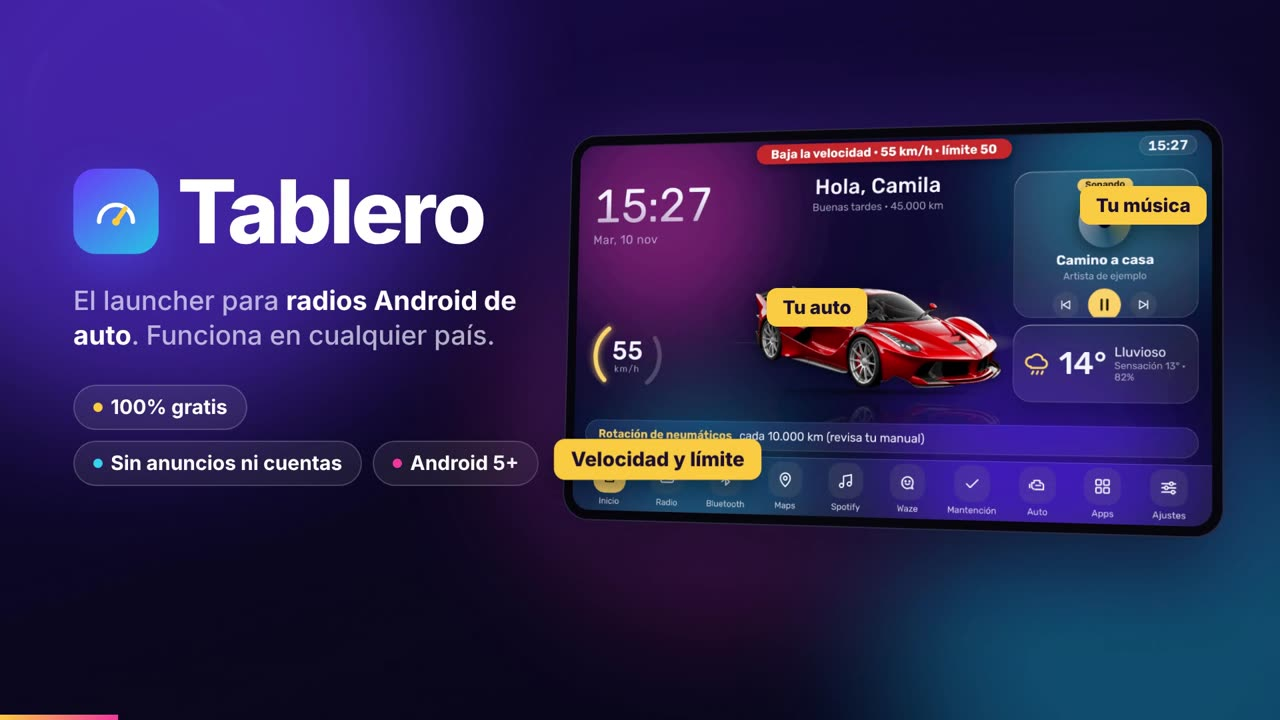
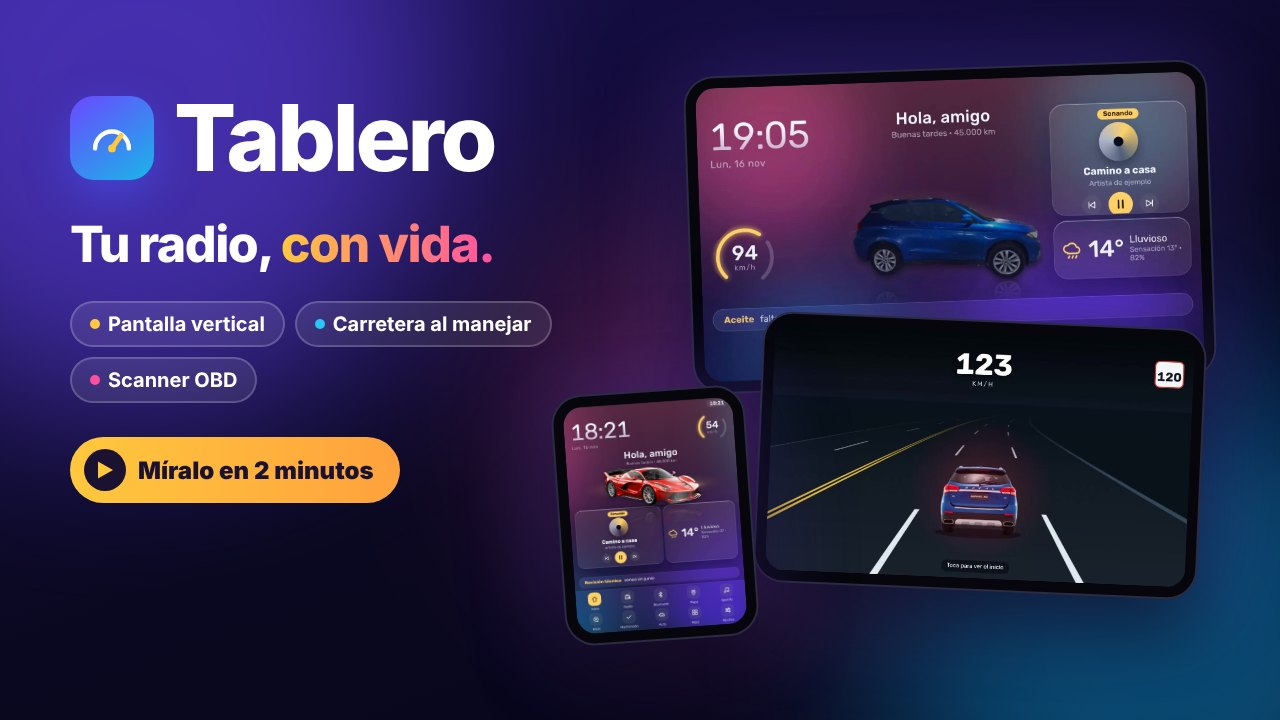
Poster nuevo para el video de la portada
Claude-Session: https://claude.ai/code/session_01CvVERnARSxC3TTNL2qde9Y

diff --git a/CHANGELOG.md b/CHANGELOG.md
@@ -8,6 +8,7 @@ Cómo se publica una versión: `docs/RELEASE.md`.
 ## [Sin publicar]
 
 ### Agregado
+- **Poster nuevo del video de la portada.** La imagen que se ve antes de reproducir el video ahora muestra las novedades (pantalla vertical, carretera al manejar y scanner OBD) con el título «Tu radio, con vida.».
 - **Foto de tu auto desde atrás, para la carretera.** Con el movimiento «Además, carretera», la radio ahora puede mostrar **tu auto de verdad** en la ruta, en vez del dibujo. En el sitio (paso «Tu auto») subes una foto trasera: si ya viene sin fondo se usa tal cual, y si no se lo quitamos en tu celular; la app que descargas «con mi diseño» ya la trae. En la app: Ajustes → Foto de tu auto desde atrás (tiene que ser un PNG con el auto ya recortado). Sin foto trasera, o si no carga, sigue el dibujo con tu color. La foto viaja una sola vez al pedir la descarga y no se guarda.
 - **Video de presentación actualizado (2 min 2 s).** Suma tres escenas nuevas: **pantalla vertical** (las 9 distribuciones en una radio de 9,7"), **pantalla viva** (un clip real con la bienvenida al encender, el auto vivo y la carretera) y **«Reconoce tu scanner»** (buscar scanner cerca, probar la conexión y tolerancia con los clones). Además, la escena de restricciones explica la opción «Otro» y las ventajas suman el movimiento a tu gusto y el diagnóstico de la radio. La música se compuso de nuevo para la duración nueva. En el sitio, la portada dice «en dos minutos» y las funciones suman pantalla vertical, pantalla con vida y apariencia desde la app; la sección de países explica «Otro» y la del scanner explica «Buscar scanner cerca».
 - **País «Otro».** En el sitio, al elegir el país, ahora hay una opción «Otro»: no se aplica ninguna restricción (ni restricción vehicular, ni pico y placa, ni Hoy No Circula). La sección de restricción del configurador se oculta, la radio no avisa nada al entrar a una ciudad y Ajustes muestra la restricción apagada con un aviso. También aplica a quien baja la app con su diseño. Aunque un diseño, un pedido o lo guardado en la radio traiga la restricción encendida, con «Otro» siempre queda apagada. Si te registras con un celular, se acepta un número internacional con su prefijo.

diff --git a/video/GUION.md b/video/GUION.md
@@ -35,3 +35,5 @@ cd proyecto && npx hyperframes@0.9.30 render -q standard --video-frame-format pn
 ffmpeg -y -i ../tablero-presentacion.mp4 -vf scale=1280:720 -c:v libx264 -preset slow -crf 29 -c:a aac -b:a 128k -movflags +faststart ../../public/video/tablero.mp4
 ```
 El clip `assets/movimiento.mp4` es un `<video>` directo en el escenario (HyperFrames no admite un `<video>` dentro de una escena con tiempo); si cambias la escena de la pantalla viva, el video se mueve junto con su marco (`#movM` y `#devM`).
+
+El poster del video en la portada (`public/video/tablero-poster.jpg`, 1280×720) es una imagen armada aparte con HTML y capturas del clip `movimiento.mp4` (inicio con el Haval y carretera) y de la pantalla vertical; si el video cambia mucho, conviene rehacerlo.
